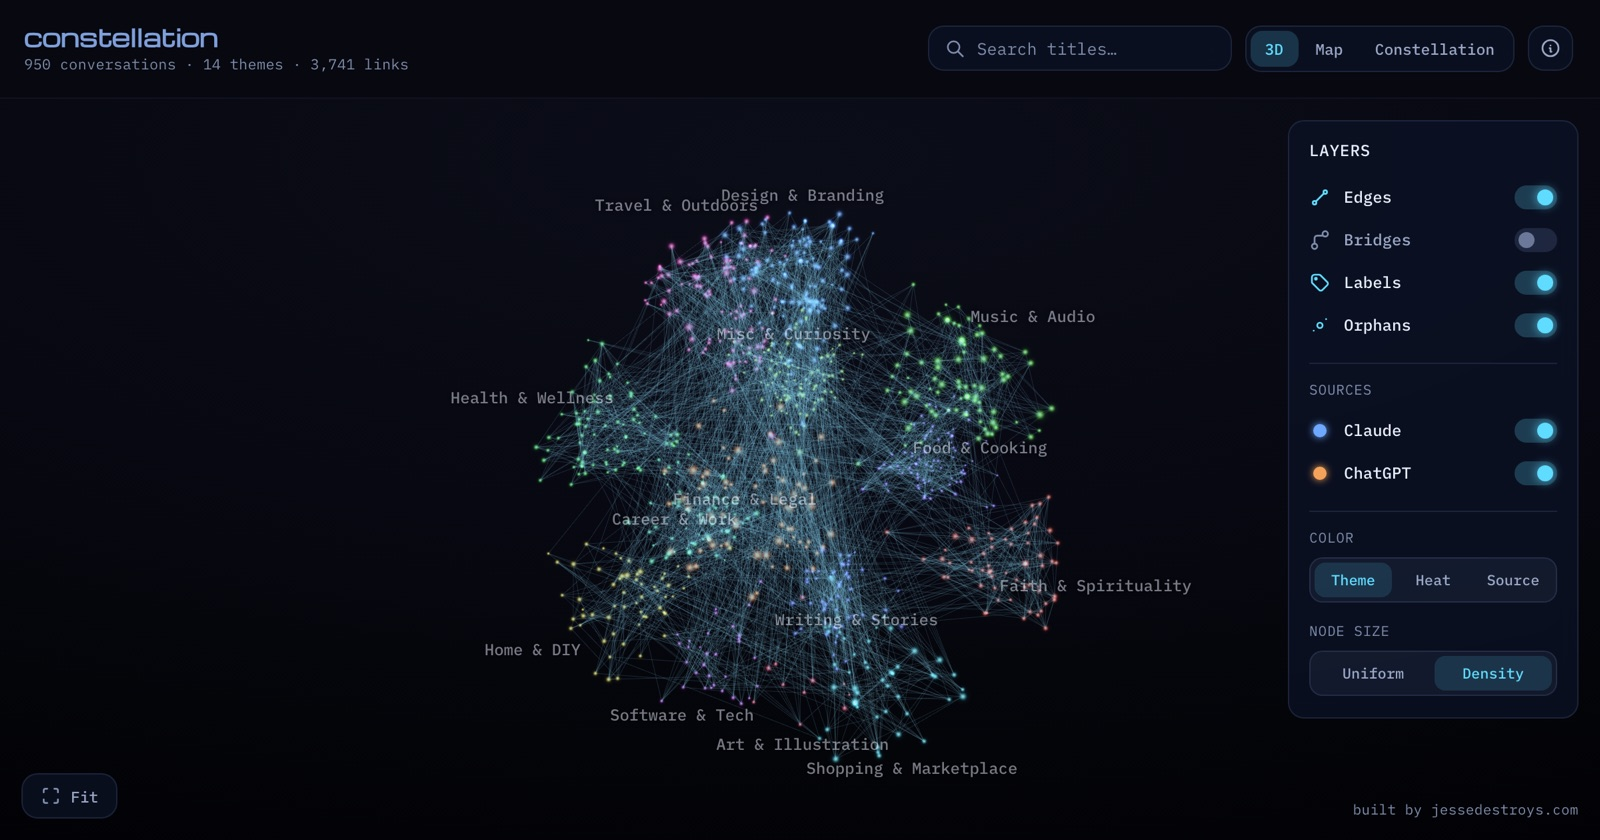
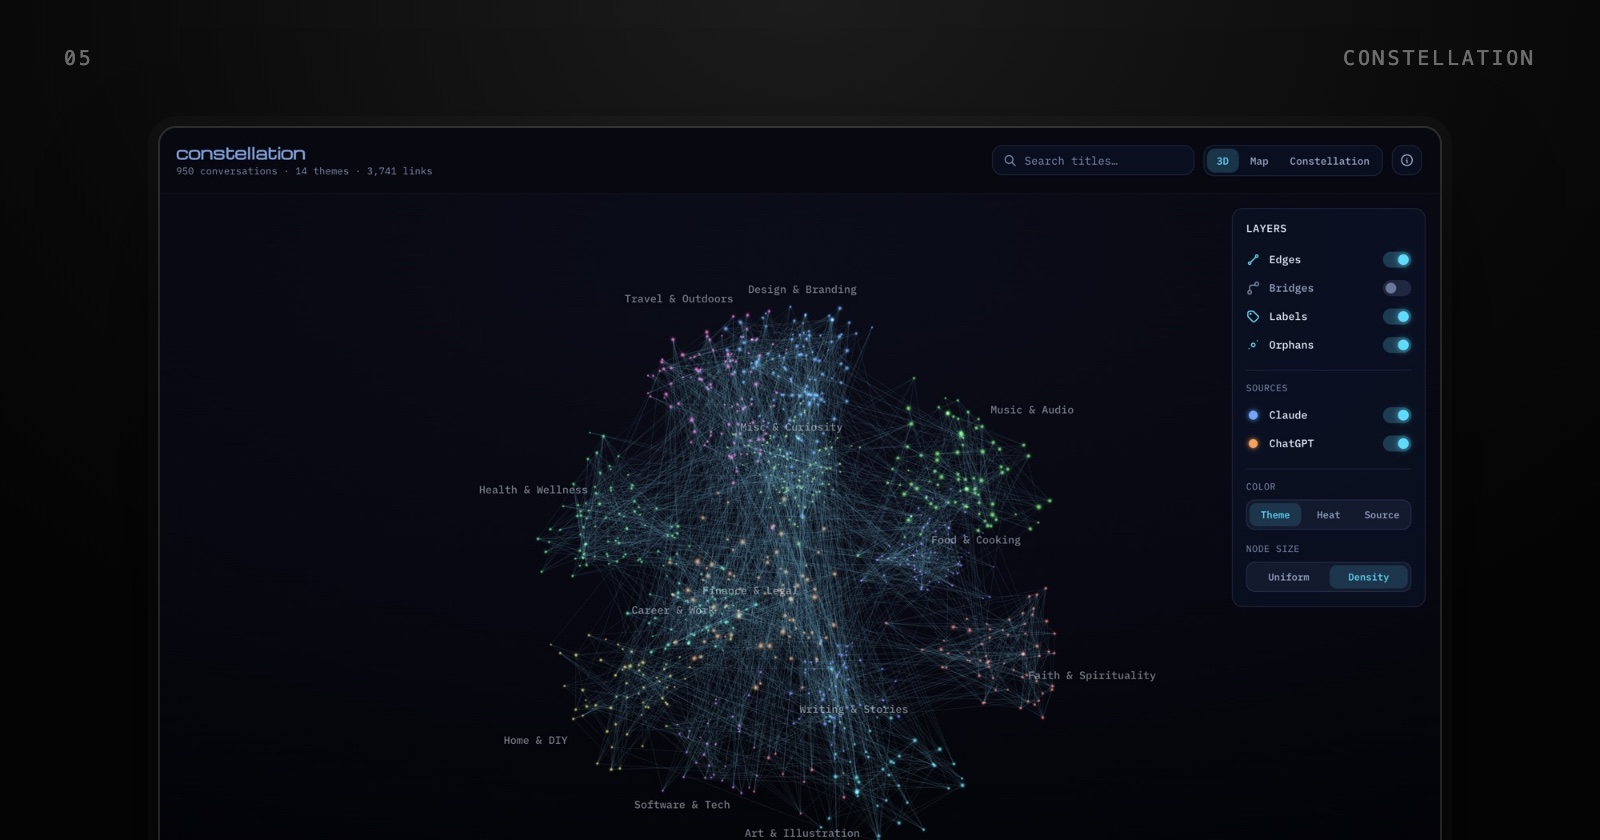
feat: render every thumbnail from one shared cover template
Replace mixed marketing cards and raw screenshots with uniform covers:
dark-mode captures framed on the same stage with an index and name.
Rows also go full-bleed so hover fills and content align with the header.

diff --git a/index.html b/index.html
@@ -84,17 +84,14 @@
     }
 
     /* Experiment rows */
-    .experiments {
-      max-width: 1400px;
-      margin: 0 auto;
-    }
 
     .experiment {
       display: flex;
       justify-content: space-between;
       align-items: flex-start;
       gap: 40px;
-      padding: 40px 48px;
+      /* Full-bleed row so the hover fill spans the page; content lines up with .header-inner */
+      padding: 40px max(48px, calc((100% - 1400px) / 2));
       border-bottom: 1px solid rgba(255,255,255,0.1);
       transition: background 0.2s ease;
     }
@@ -146,41 +143,21 @@
       color: #f5f5f5;
     }
 
-    /* Plate — every thumbnail sits on the same stage so the set reads as one body of work */
-    .experiments { counter-reset: plate; }
-
     .experiment-thumb {
-      counter-increment: plate;
-      position: relative;
       display: block;
-      padding: 7% 8% 9%;
-      background: radial-gradient(ellipse at 50% 0%, #1a1a1a 0%, #0b0b0b 70%);
-      border: 1px solid rgba(255,255,255,0.08);
-      border-radius: 6px;
-    }
-
-    .experiment-thumb::after {
-      content: counter(plate, decimal-leading-zero);
-      position: absolute;
-      left: 8%;
-      bottom: 3%;
-      font: 11px/1 ui-monospace, SFMono-Regular, Menlo, monospace;
-      letter-spacing: 0.1em;
-      color: rgba(255,255,255,0.25);
+      border-radius: 4px;
+      overflow: hidden;
     }
 
     .experiment-thumb img {
       width: 100%;
       display: block;
       border-radius: 4px;
-      outline: 1px solid rgba(255,255,255,0.1);
-      box-shadow: 0 24px 48px -12px rgba(0,0,0,0.8);
-      transition: transform 0.3s ease, box-shadow 0.3s ease;
+      transition: opacity 0.2s ease;
     }
 
     .experiment-thumb:hover img {
-      transform: translateY(-3px);
-      box-shadow: 0 32px 56px -12px rgba(0,0,0,0.9);
+      opacity: 0.85;
     }
 
     /* Embed container — 16:9 aspect ratio */
@@ -266,7 +243,7 @@
       </div>
       <div class="embed-outer">
         <a href="https://zero.jessedestroys.com" target="_blank" class="experiment-thumb">
-          <img src="https://zero.jessedestroys.com/og.png" alt="Zero" loading="lazy">
+          <img src="images/zero.jpg" alt="Zero" loading="lazy">
         </a>
       </div>
     </article>
@@ -378,7 +355,7 @@
       </div>
       <div class="embed-outer">
         <a href="https://www.thebroodinghopster.com" target="_blank" class="experiment-thumb">
-          <img src="https://thebroodinghopster.com/images/og-image.jpg" alt="The Brooding Hopster" loading="lazy">
+          <img src="images/brooding-hopster.jpg" alt="The Brooding Hopster" loading="lazy">
         </a>
       </div>
     </article>

diff --git a/covers/template.html b/covers/template.html
@@ -1,0 +1,79 @@
+<!DOCTYPE html>
+<!--
+  Cover template for case-study thumbnails. Every cover shares this stage so the set reads as one body of work.
+  Usage: template.html?n=01&name=Zero&shot=zero  (loads shots/zero.jpg, a 1440×900 dark-mode capture)
+  Render at 800×420, 2x → 1600×840:
+    "/Applications/Google Chrome.app/Contents/MacOS/Google Chrome" --headless --hide-scrollbars \
+      --window-size=800,420 --force-device-scale-factor=2 --screenshot=out.png \
+      "file://$PWD/covers/template.html?n=01&name=Zero&shot=zero"
+-->
+<html lang="en">
+<head>
+  <meta charset="UTF-8">
+  <title>Cover</title>
+  <style>
+    * { margin: 0; padding: 0; box-sizing: border-box; }
+
+    html, body {
+      width: 800px;
+      height: 420px;
+      overflow: hidden;
+      background: #000;
+    }
+
+    .stage {
+      position: relative;
+      width: 100%;
+      height: 100%;
+      background: radial-gradient(ellipse 70% 90% at 50% 0%, #1c1c1c 0%, #0a0a0a 65%, #050505 100%);
+    }
+
+    .label {
+      position: absolute;
+      top: 24px;
+      left: 32px;
+      right: 32px;
+      display: flex;
+      justify-content: space-between;
+      font: 500 10px/1 ui-monospace, SFMono-Regular, Menlo, monospace;
+      letter-spacing: 0.14em;
+      text-transform: uppercase;
+      color: rgba(255,255,255,0.4);
+    }
+
+    .window {
+      position: absolute;
+      top: 64px;
+      left: 80px;
+      width: 640px;
+      height: 400px;
+      border-radius: 8px;
+      overflow: hidden;
+      outline: 1px solid rgba(255,255,255,0.12);
+      box-shadow: 0 30px 60px -10px rgba(0,0,0,0.9), 0 0 0 6px rgba(255,255,255,0.025);
+    }
+
+    .window img {
+      width: 100%;
+      height: 100%;
+      display: block;
+      object-fit: cover;
+      object-position: top;
+    }
+  </style>
+</head>
+<body>
+  <div class="stage">
+    <div class="label"><span id="n"></span><span id="name"></span></div>
+    <div class="window"><img id="shot" alt=""></div>
+  </div>
+  <script>
+    (function () {
+      var q = new URLSearchParams(location.search);
+      document.getElementById('n').textContent = q.get('n') || '00';
+      document.getElementById('name').textContent = q.get('name') || '';
+      document.getElementById('shot').src = 'shots/' + (q.get('shot') || '') + '.jpg';
+    })();
+  </script>
+</body>
+</html>

diff --git a/CLAUDE.md b/CLAUDE.md
@@ -9,7 +9,8 @@ Static single-page portfolio site. No framework, no build step — just `index.h
 - HTML, CSS, vanilla JS (all in `index.html`)
 - No package manager, no dependencies
 - Hosted on GitHub Pages with custom domain (`jessedestroys.com`)
-- `_config.yml` only excludes repo docs from the Pages build — add any new top-level `.md` there, or Pages will publish it
+- `covers/` holds the thumbnail template and source shots — excluded from the Pages build
+- `_config.yml` only excludes repo docs and `covers/` from the Pages build — add any new top-level `.md` there, or Pages will publish it
 - `AGENTS.md` is a symlink to this file (for Codex) — edit `CLAUDE.md`, never the link
 
 ## Architecture
@@ -41,6 +42,8 @@ To add a new case study, duplicate an `<article class="experiment">` block and u
 2. `.experiment-title` — project name
 3. `.experiment-desc` — one-line description
 4. `.experiment-link` — optional external URL
-5. Embed: either an image thumbnail or an iframe in `.embed-wrap`. Thumbnails live in `images/` as 1600×840 JPEG screenshots (1200×630 viewport at 2x); hotlinking a site's own `og:image` is fine when it has one
+5. Embed: either an image thumbnail or an iframe in `.embed-wrap`. Thumbnails are 1600×840 JPEG covers in `images/`, all rendered from `covers/template.html` so the set stays uniform — never drop in a raw screenshot or a site's `og:image`:
+   - Capture the live project at 1440×900, 2x, dark mode, into `covers/shots/<slug>.jpg` (stage light-only pages on a dark background)
+   - Render with the headless Chrome command in the template's header comment; `n` is the row's position, so renumber covers when rows are added or reordered
 
 To add a new rotating tagline, append a string to the `phrases` array in the `<script>` block.
